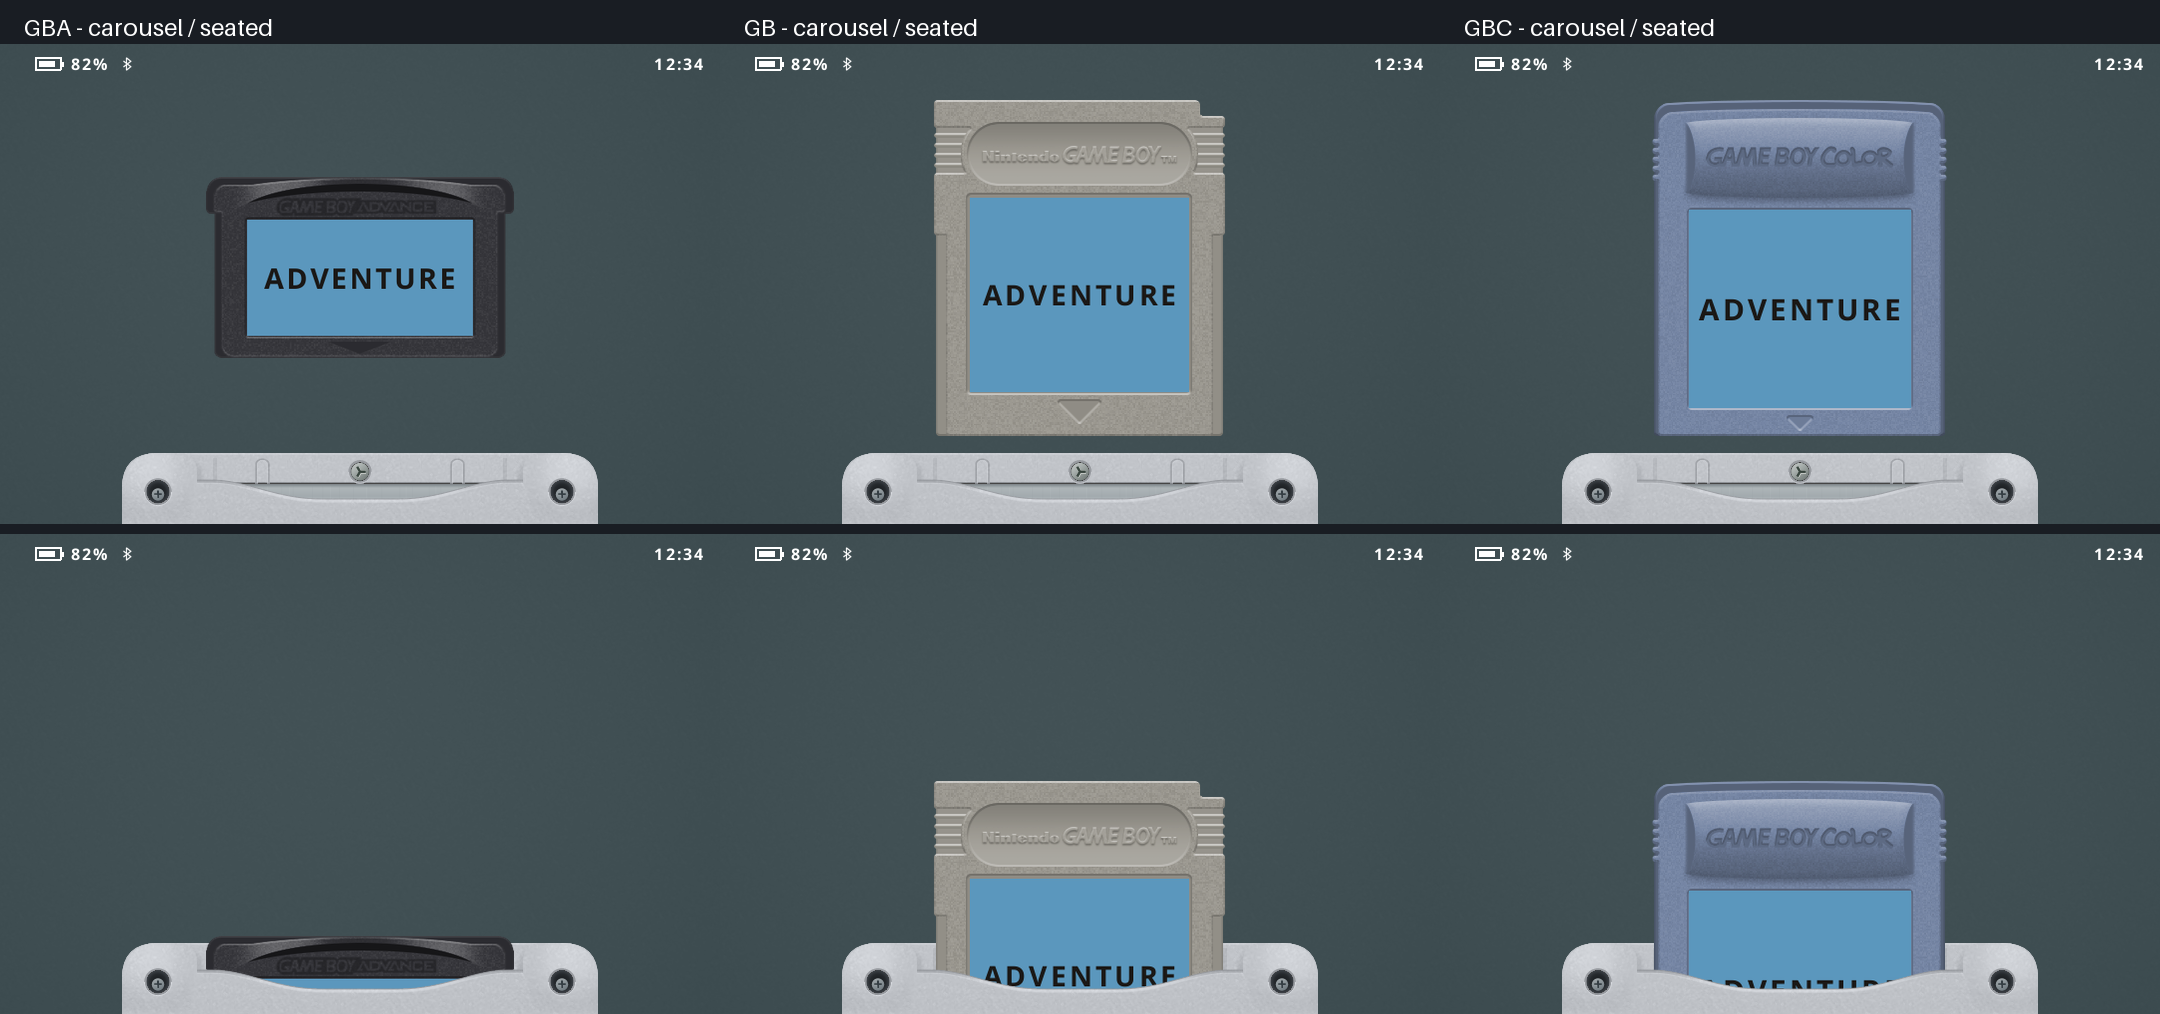
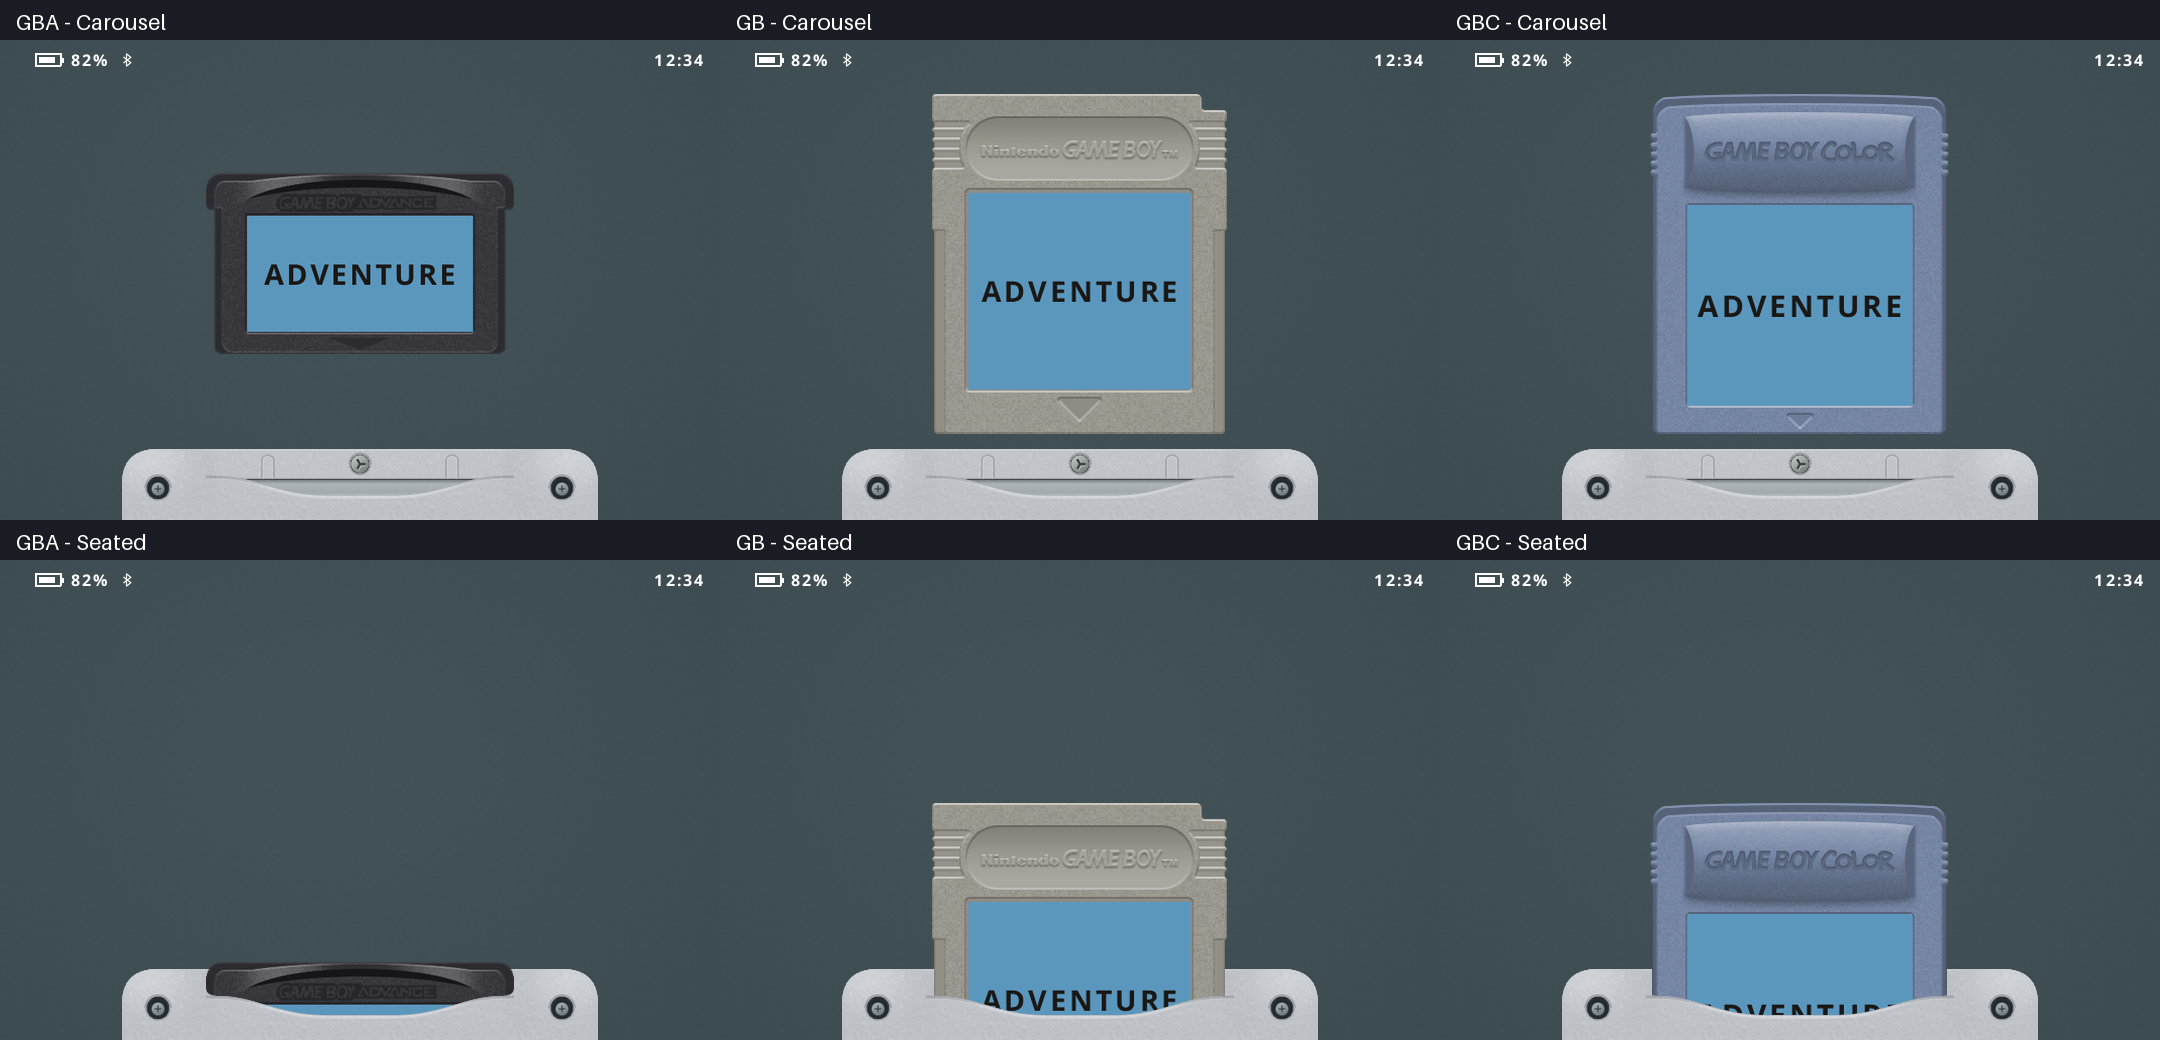
Refine SP slot joins, screw alignment and cartridge fit

diff --git a/crates/slot-ui/tests/shell_material.rs b/crates/slot-ui/tests/shell_material.rs
@@ -1,5 +1,5 @@
 fn at(x: usize, y: usize) -> usize {
-    let x = (360.0+(x as f32-360.0)*308.0/240.0).round() as usize;
+    let x = (360.0+(x as f32-360.0)*308.0/254.0).round() as usize;
     let y = (5.0+y as f32*1.05).round() as usize;
     (y*720+x)*4
 }
@@ -110,7 +110,7 @@ fn sp_body_has_rounded_shoulders_and_recessed_corner_screws() {
         assert!((mean(523,527)-mean(518,522)).abs()<4.0,
             "vertical seam between right shoulder and flat deck");
         for x in [158,562] {
-            assert!(front[(35*720+x)*4]<80,"corner screw well missing");
+            assert!(front[(32*720+x)*4]<80,"corner screw well missing");
             assert!(front[(46*720+x)*4]>80,"metal screw head missing");
         }
     }
@@ -144,8 +144,8 @@ fn slot_end_returns_have_recessed_volume_inside_the_aperture() {
             let values:Vec<_>=(18..26).flat_map(|y|(x0..x1).map(move |x|back[(y*720+x)*4] as f32)).collect();
             values.iter().sum::<f32>()/values.len() as f32
         };
-        assert!(mean(192,196)>mean(199,201)+3.0,"left rolled return lost its depth");
-        assert!(mean(524,528)>mean(519,521)+3.0,"right rolled return lost its depth");
+        assert!(mean(175,185)>mean(195,205)+3.0,"left rolled return lost its depth");
+        assert!(mean(535,545)>mean(515,525)+3.0,"right rolled return lost its depth");
     }
 }
 
@@ -164,13 +164,62 @@ fn enlarged_slot_keeps_the_central_screw_head_circular() {
     let h=ys.iter().max().unwrap()-ys.iter().min().unwrap()+1;
     assert!(w.abs_diff(h)<=1,"central metal screw is warped: {w} by {h}");
     assert!(w>=17 && h>=17,"fastener disappeared");
+    let centre_y=(*ys.iter().min().unwrap()+*ys.iter().max().unwrap()+1) as f32/2.0;
+    assert!((centre_y-(1.0+31.25)/2.0).abs()<=0.5,
+        "screw must be vertically centered in the upper plastic strip: {centre_y}");
     let mut dark=Vec::new();
-    for y in 12..28 { for x in 352..368 {
-        let dx=x as f32+0.5-360.0;let dy=y as f32+0.5-19.7;
+    for y in 8..24 { for x in 352..368 {
+        let dx=x as f32+0.5-360.0;let dy=y as f32+0.5-16.125;
         if dx*dx+dy*dy<49.0 && a[(y*720+x)*4]<85 { dark.push((x as f32+0.5,y as f32+0.5)); }
     }}
     let cx=dark.iter().map(|p|p.0).sum::<f32>()/dark.len() as f32;
     let cy=dark.iter().map(|p|p.1).sum::<f32>()/dark.len() as f32;
-    assert!((cx-360.0).abs()<0.5 && (cy-19.7).abs()<0.5,
+    assert!((cx-360.0).abs()<0.5 && (cy-16.125).abs()<0.5,
         "driver recess is off-center: {cx},{cy}");
+}
+
+#[test]
+fn visible_gba_grip_meets_the_aperture_and_gb_bodies_match_its_lower_body() {
+    use slot_store::{Cart, Platform};
+    use slot_ui::{cart_face, seated_box};
+    let [back, _] = shell_slot_faces(ShellColour::Platinum);
+    let [other, _] = shell_slot_faces(ShellColour::PearlPink);
+    // Untinted liner bounds measure the actual opening, independent of painted relief.
+    let metal: Vec<_> = (180..540).filter(|x| {
+        let i=(34*720+x)*4;
+        back[i..i+3]==other[i..i+3]
+    }).collect();
+    let left=*metal.first().unwrap() as f32;
+    let right=(*metal.last().unwrap()+1) as f32;
+    let face = |platform| cart_face(&Cart { platform, stem: "Test".into(),
+        title: "Test".into(), rom: "test.gba".into(), code: String::new(),
+        shell: None, label: None });
+    let gba=face(Platform::Gba);
+    let span = |f: &slot_ui::CartFace, y: u32| {
+        let xs: Vec<_>=(0..f.w).filter(|x|f.rgba[((y*f.w+x)*4+3) as usize]>200).collect();
+        (*xs.first().unwrap() as f32, (*xs.last().unwrap()+1) as f32)
+    };
+    let scale=seated_box(Platform::Gba).0 as f32/gba.w as f32;
+    let grip=(0..gba.h/5).map(|y|span(&gba,y)).max_by(|a,b| (a.1-a.0).total_cmp(&(b.1-b.0))).unwrap();
+    let cart_left=360.0-gba.w as f32*scale/2.0+grip.0*scale;
+    let cart_right=360.0-gba.w as f32*scale/2.0+grip.1*scale;
+    assert!((cart_left-left).abs()<=1.0 && (cart_right-right).abs()<=1.0,
+        "visible GBA grip {cart_left}..{cart_right} leaves a gap in aperture {left}..{right}");
+    let body=span(&gba,gba.h/2);
+    let body_width=(body.1-body.0)*scale;
+    for platform in [Platform::Gb,Platform::Gbc] {
+        let f=face(platform);let body=span(&f,f.h/2);
+        let width=(body.1-body.0)*seated_box(platform).0 as f32/f.w as f32;
+        assert!((width-body_width).abs()<1.0,"{platform:?} body {width} versus GBA {body_width}");
+    }
+}
+
+#[test]
+fn shoulder_and_rib_paint_never_crosses_the_metal_boundary() {
+    let a=shell_slot_faces(ShellColour::Platinum)[0];
+    let b=shell_slot_faces(ShellColour::PearlPink)[0];
+    for y in 32..46 { for x in 207..513 {
+        let i=(y*720+x)*4;
+        assert_eq!(&a[i..i+4],&b[i..i+4],"paint spills onto metal at {x},{y}");
+    }}
 }

diff --git a/tools/compose-slot-fit.py b/tools/compose-slot-fit.py
@@ -1,0 +1,19 @@
+"""Compose production motion stills: INPUT_ROOT OUTPUT.png.
+
+INPUT_ROOT contains motion-gba, motion-gb and motion-gbc from the documented
+shell_finish_preview exporter and compose-slot-motion.py.
+"""
+from pathlib import Path
+import sys
+from PIL import Image, ImageDraw, ImageFont
+
+root=Path(sys.argv[1])
+board=Image.new('RGB',(2160,1040),'#191d23')
+draw=ImageDraw.Draw(board)
+font=ImageFont.load_default(size=22)
+for col,platform in enumerate(['gba','gb','gbc']):
+    for row,frame in enumerate([0,40]):
+        y=row*520
+        draw.text((col*720+16,y+8),f'{platform.upper()} - '+['Carousel','Seated'][row],font=font,fill='white')
+        board.paste(Image.open(root/f'motion-{platform}/platinum/frame-{frame:03}.png'),(col*720,y+40))
+board.save(sys.argv[2])

diff --git a/crates/slot-ui/tests/chrome.rs b/crates/slot-ui/tests/chrome.rs
@@ -913,7 +913,7 @@ fn textured_insertion_preserves_both_axes_and_matches_the_enlarged_carousel() {
                 }).unwrap();
                 assert!(q.y>=40.0 && q.x>=0.0 && q.x+q.w<=canvas.w,
                     "{platform:?} clipped at {step}: {q:?}");
-                let visible_w=q.w*if platform==Platform::Gba {340.0/360.0} else {292.0/312.0};
+                let visible_w=q.w*if platform==Platform::Gba {340.0/360.0} else {288.0/312.0};
                 assert!((visible_w-308.0*340.0/360.0).abs()<1.0,"unequal visible cartridge widths");
                 assert!((q.w/w as f32-q.h/h as f32).abs() < 0.00001,
                     "{platform:?} squashed at {step}: {q:?}");

diff --git a/crates/slot-ui/src/cart.rs b/crates/slot-ui/src/cart.rs
@@ -145,12 +145,12 @@ fn spec(shape: Shape) -> Spec {
 }
 
 // Match the inserting bodies: GBA is 340/360 wide below its wider cap;
-// GB/Color is 292/312 wide inside its transparent texture margins.
+// GB/Color is 288/312 wide inside its transparent texture margins.
 // Preserve every source aspect ratio; never stretch the shorter GBA vertically.
 pub const SEATED_W: u32 = 308;
 const SEATED_H: u32 = 181;
-pub(crate) const GB_SEATED_W: u32 = 311;
-const GB_SEATED_H: u32 = 336;
+pub(crate) const GB_SEATED_W: u32 = 315;
+const GB_SEATED_H: u32 = 340;
 
 pub fn seated_box(platform: Platform) -> (u32, u32) {
     match platform {

diff --git a/crates/slot-ui/tests/cart.rs b/crates/slot-ui/tests/cart.rs
@@ -323,7 +323,7 @@ fn the_game_boy_pak_body_has_the_scanned_aspect() {
         body(GB_CART_W, GB_CART_H)
     );
     let (gw, gh) = seated_box(Platform::Gb);
-    assert!((gw as f32 * 292.0 / 312.0 - sw as f32 * 340.0 / 360.0).abs() < 1.0,
+    assert!((gw as f32 * 288.0 / 312.0 - sw as f32 * 340.0 / 360.0).abs() < 1.0,
         "padded GB artwork must have the same visible width as the GBA insertion body");
     assert!((body(gw, gh) - 0.877).abs() < 0.01);
 }

diff --git a/MATERIALS.md b/MATERIALS.md
@@ -114,7 +114,7 @@ the screen, like a close view of the real SP. The two small inverted-U ribs rema
 The existing art includes transparent horizontal margins, particularly on GB/GBC;
 its opaque body, rather than the entire texture rectangle, sets physical width.
 Preserve the uniform source aspect ratio. The GBA cap is 308px wide and its 340/360 inserting body is ~291px;
-the GB/GBC texture is 311px, whose 292/312 opaque body is also ~291px. The same widths are used
+the GB/GBC texture is 315px, whose 288/312 opaque body is also ~291px. The same widths are used
 on the carousel and when seated, avoiding any size jump or horizontal squash. A shared connector stop ~28 mm beyond the straight mouth plane
 leaves roughly 7 mm of GBA grip and 37 mm of GB/GBC body outside that plane.
 The central scoop reveals a little more. This depth is a photographic estimate,
@@ -126,7 +126,7 @@ highlights and lower-right shadows. The same paint palette and grain remain;
 timing, slider geometry and sound are unchanged.
 
 The enlarged GB/GBC shelf placement is centered in the usable area below the HUD,
-rather than underneath its top plate. The 336px-tall GB/GBC drawing leaves about 16px of clearance below the HUD
+rather than underneath its top plate. The 340px-tall GB/GBC drawing leaves about 14px of clearance below the HUD
 and above the housing. The cartridge
 geometry checks retain fractional uniform scaling instead of requiring the
 scaled lower edge to land on an integer pixel.
@@ -154,15 +154,14 @@ the selected finish.
 
 ## Larger SP housing and matching insertion bodies
 
-The vector art is now 720×72 instead of 720×58. The aperture is enlarged by
-308/240 (about 28%) horizontally, with its original curved-to-flat cut edge,
+The vector art is now 720×72 instead of 720×58. The aperture is 308px wide, matching the visible GBA grip, with its original curved-to-flat cut edge,
 matte metal liner and recessed end walls preserved. Rounded shoulders and two
 corner screw wells follow the supplied full SP photograph. The actual device
 outline is centered at x=122..598 and remains fully visible on both panels.
 
 The 308px GBA top grip remains wider than its ~291px inserting body. GB/GBC
-bodies match that narrower body, not the top grip. Their 311px texture includes
-transparent margins and is proportionally 336px tall, comfortably between
+bodies match that narrower body, not the top grip. Their 315px texture includes
+transparent margins and is proportionally 340px tall, comfortably between
 the 40px status area and housing at y=408. Every source retains its native
 aspect ratio. GB/GBC transparent margins are counted in the texture size but
 not the visible width. Insertion uses the same sizes and common connector stop.
@@ -195,3 +194,22 @@ arms meet at that center, with a raster centroid check for the dark pocket.
 
 The shoulder material fades continuously into the flat deck before the slot
 boundary. No rectangular clip or vertical seam divides those two surfaces.
+
+## Slot boundary and fit refinement
+
+The 308px mouth is bounded at x=206..514, exactly matching the GBA grip,
+removing the former 9px gap at each end. The GB/GBC face's rendered opaque
+mid-body spans 288/312 of its texture (the prior 292/312 estimate included
+transparent edge pixels). A 315px texture therefore gives a ~291px body,
+matching the 340/360 GBA insertion body. Uniform scaling produces a ~340px
+tall GB/GBC pak, still below the HUD. Raster coverage checks measure both
+visible widths and the real liner boundary instead of assuming texture bounds.
+
+The inner shoulder profile now eases tangentially into the flat lip. Both layers
+use the same broad shoulder shading, fading horizontally and vertically into
+the deck. The front relief and bevel are clipped to its actual silhouette;
+the rear relief excludes the metal and the rib strokes stop at the rear edge.
+The center screw is at y=16.125, halfway between the top edge (1px) and liner
+(31.25px), with its circular dimensions preserved. Both corner assemblies use
+one shared local drawing: shallow recessed seats, the same viewing direction,
+and a centered head and driver cut. These are visual approximations.
